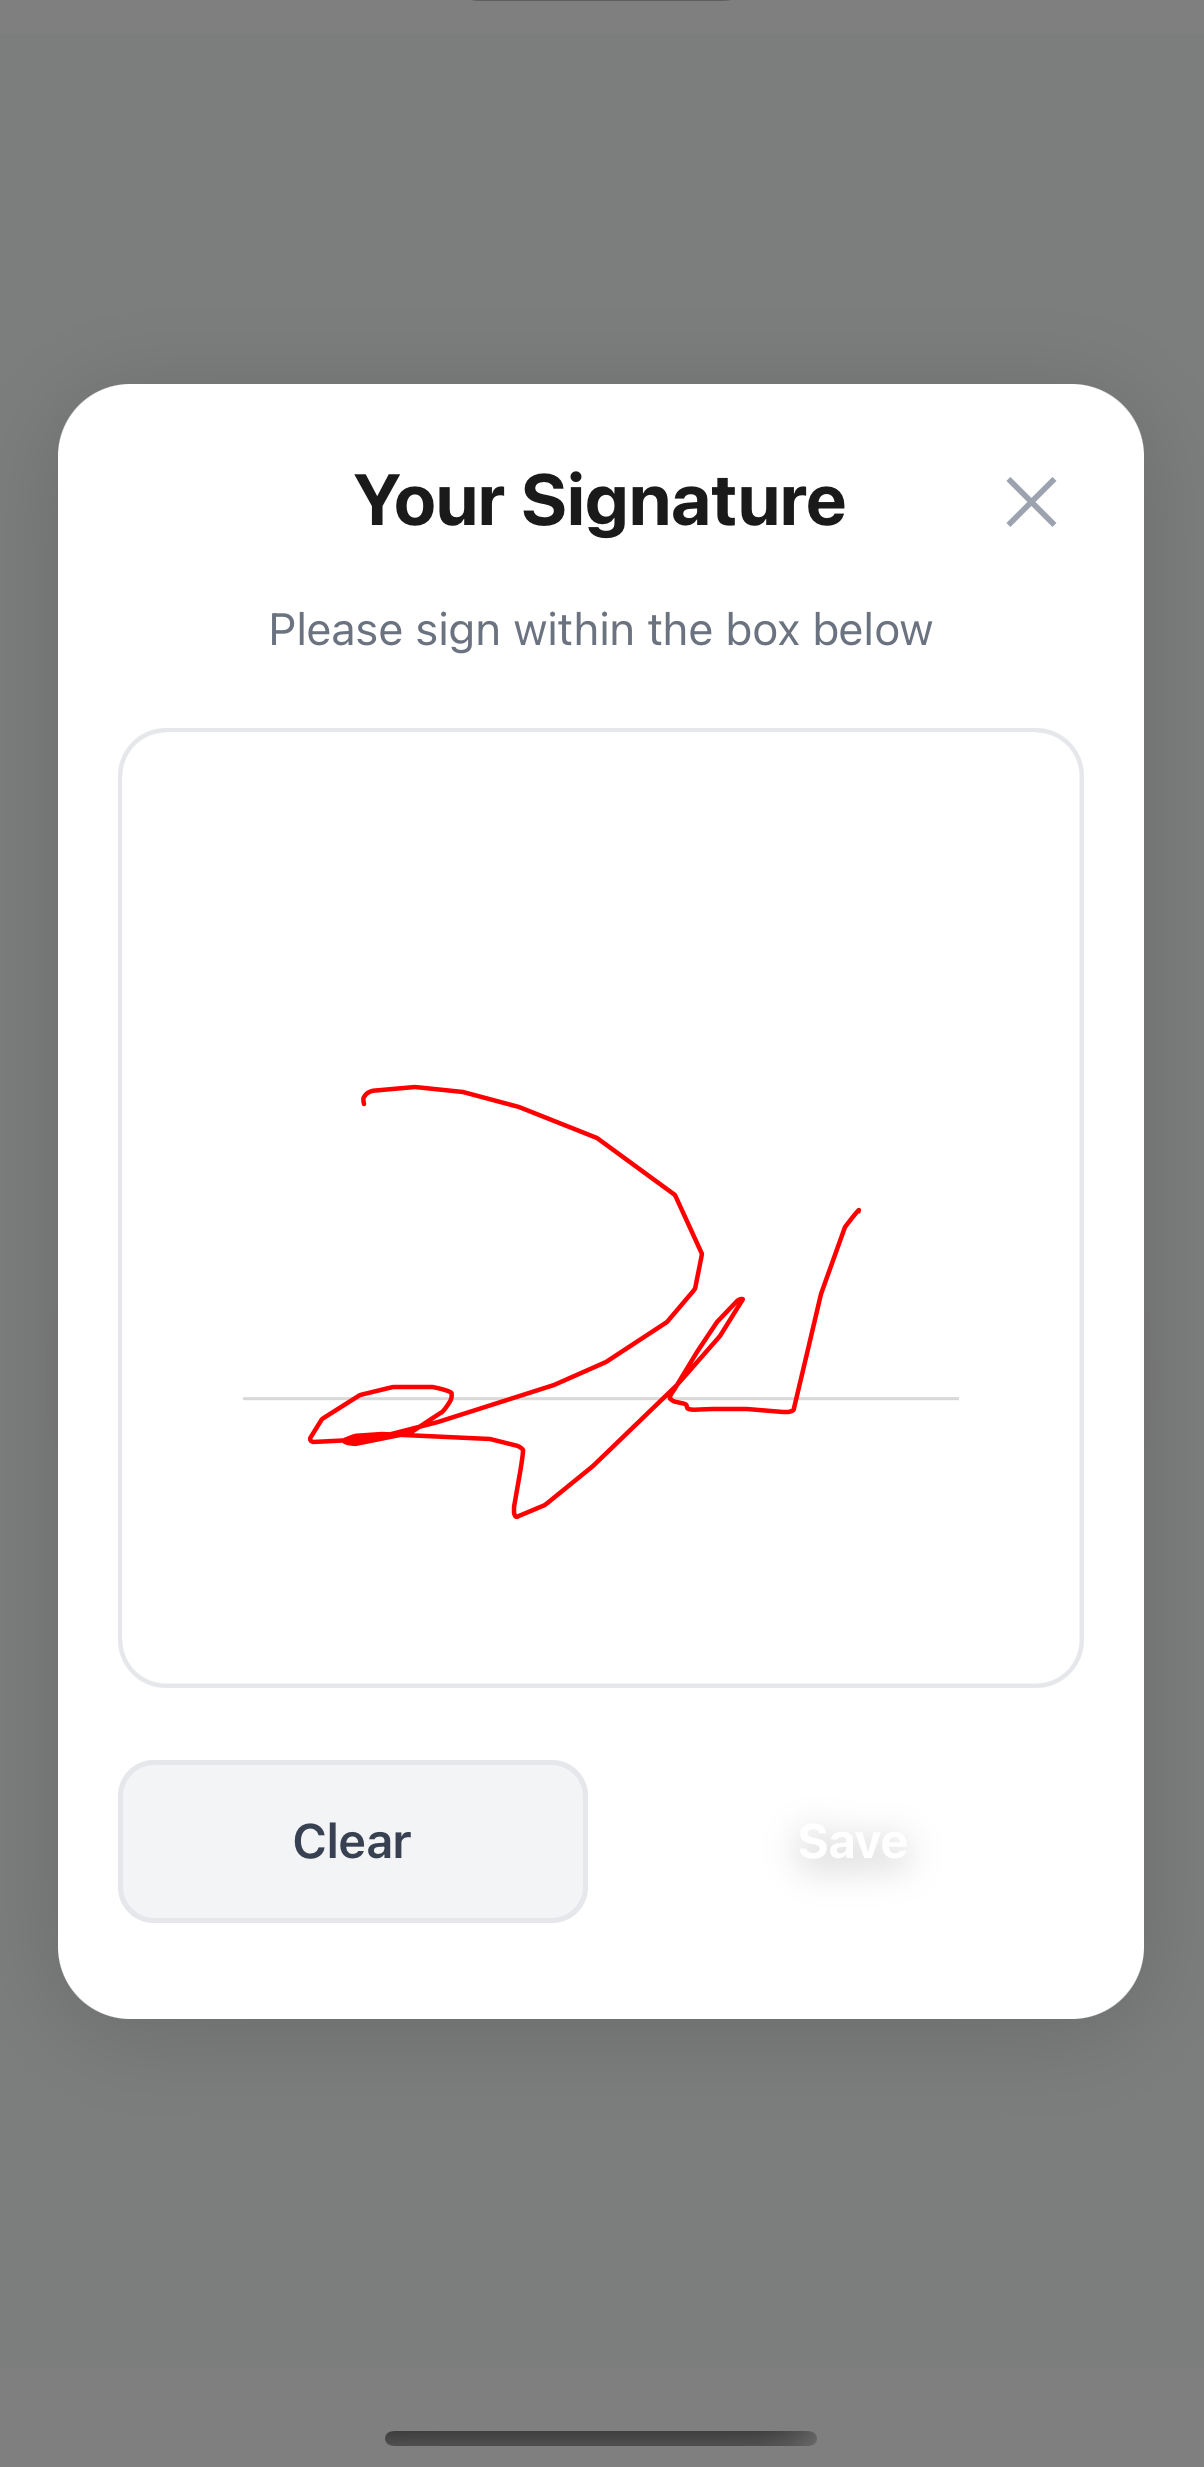
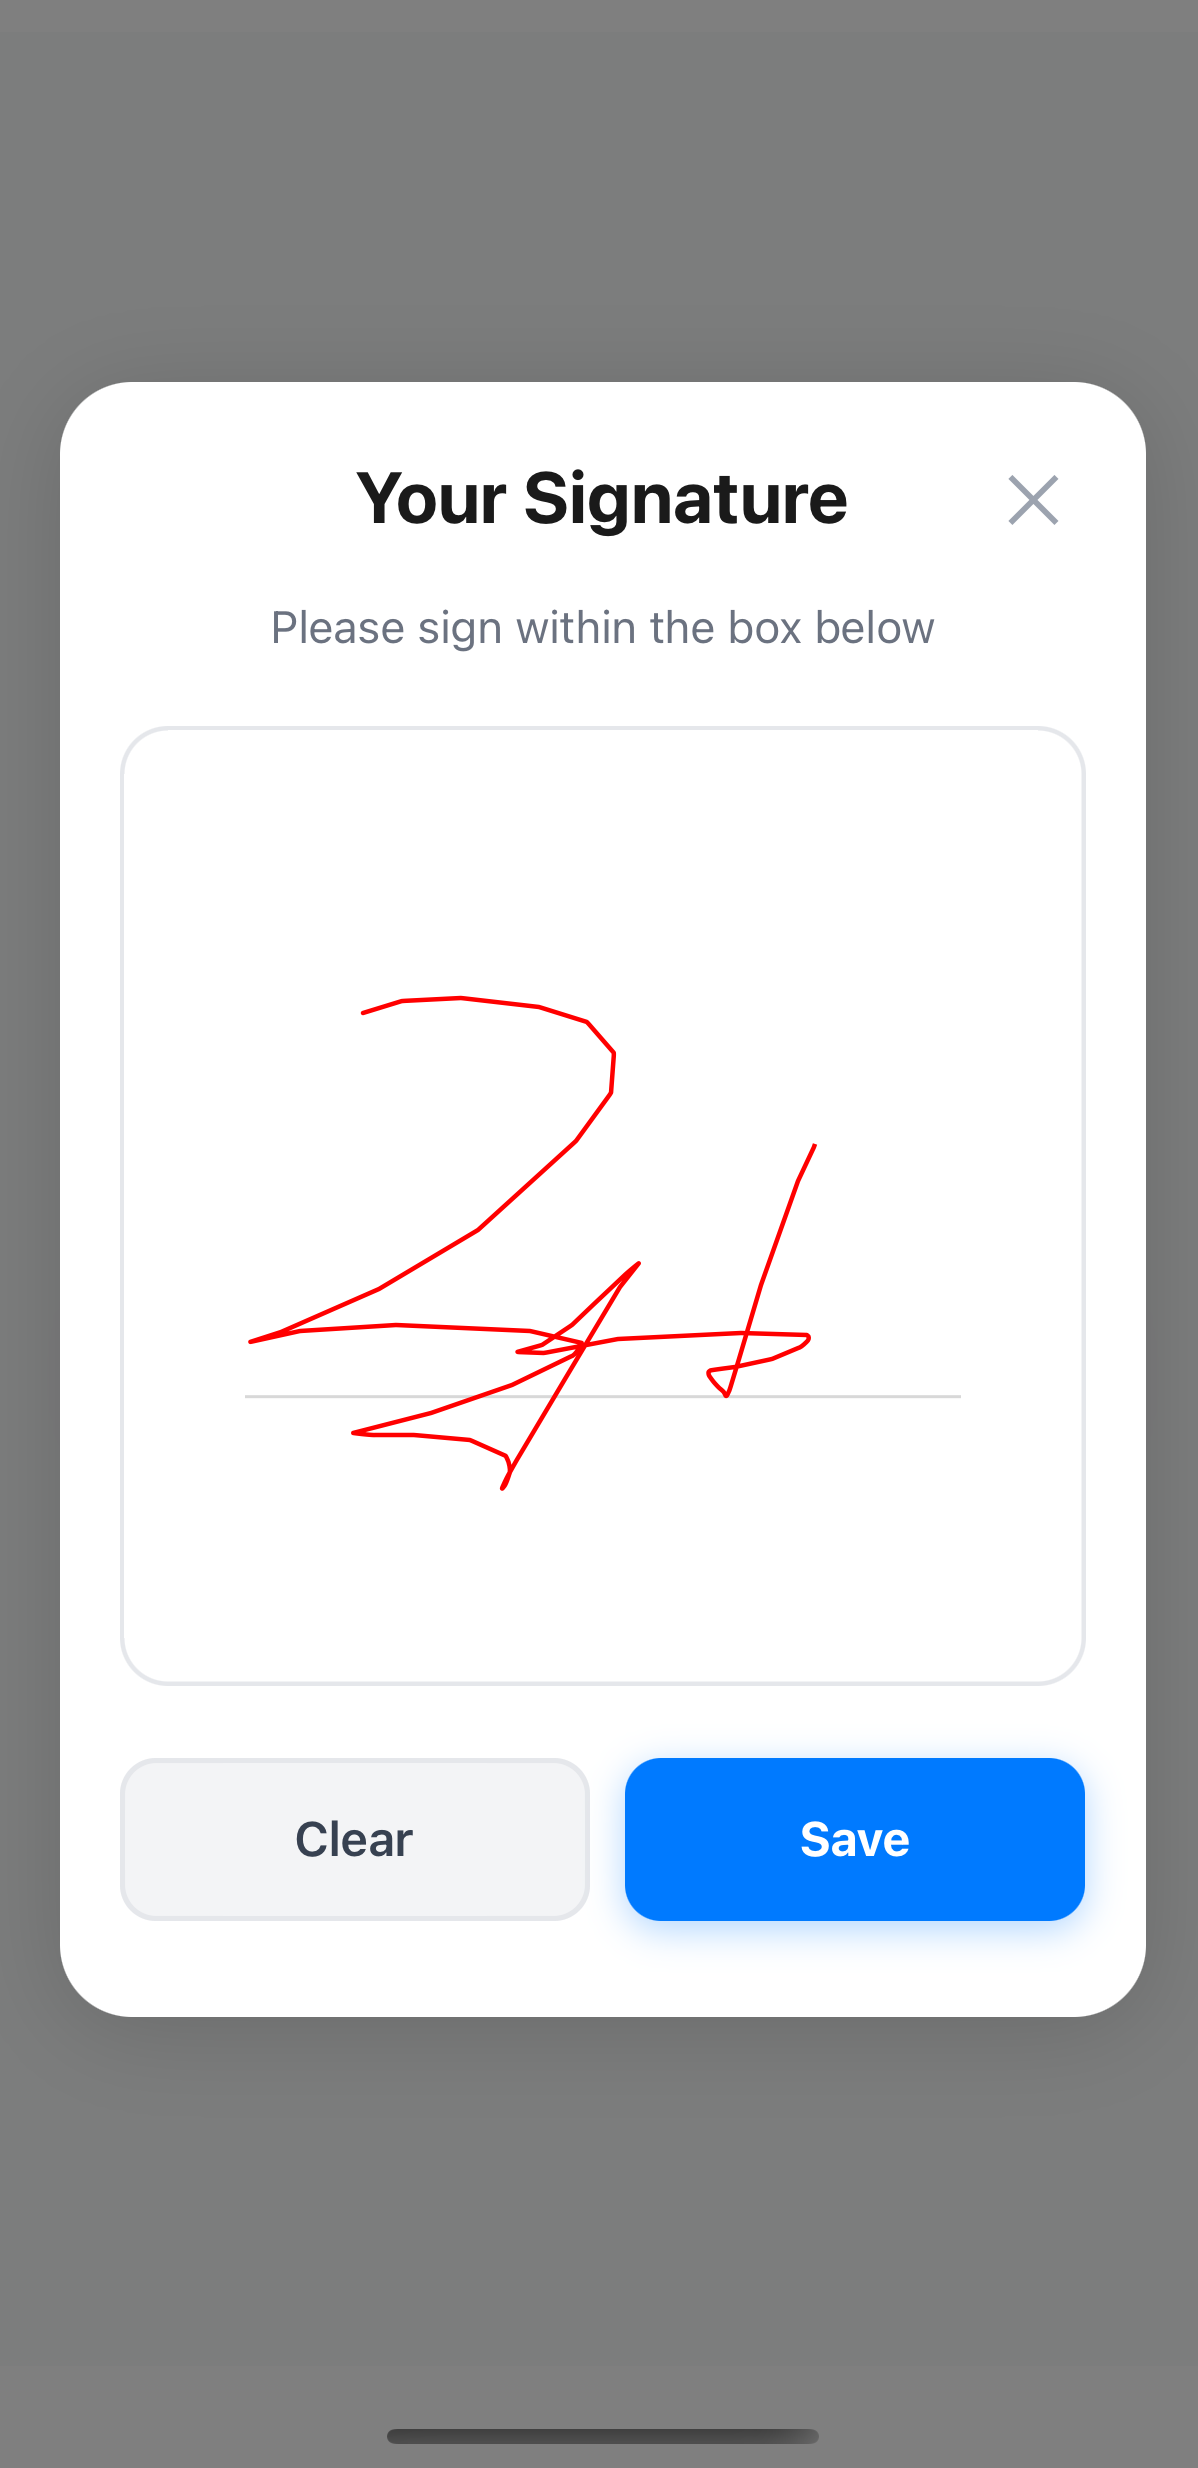
feat: change import and update readme

diff --git a/index.d.ts b/index.d.ts
@@ -1,0 +1,37 @@
+import { ForwardRefExoticComponent, RefAttributes } from 'react';
+
+export type AssetSignature = {
+  path: string;
+  uri: string;
+  size: number;
+  name: string;
+  width: number;
+  height: number;
+};
+
+export type SignaturePadProps = {
+  onSave?: (file: AssetSignature) => void;
+  onClear?: () => void;
+  onError?: () => void;
+  backgroundColorButton?: string;
+  isSaveToLibrary?: boolean;
+  lineWidth?: number;
+  showBaseline?: boolean;
+  signatureColor?: string;
+  outputFormat?: 'JPEG' | 'PNG';
+  presentationStyle?: 'modal' | 'signature-pad';
+  closeAfterSave?: boolean;
+};
+
+export type SignaturePadRef = {
+  open: () => void;
+  close: () => void;
+  onClear: () => void;
+  onSave: () => void;
+};
+
+declare const SignaturePad: ForwardRefExoticComponent<
+  SignaturePadProps & RefAttributes<SignaturePadRef>
+>;
+
+export default SignaturePad;

diff --git a/example/src/SignatureFullScreen.tsx b/example/src/SignatureFullScreen.tsx
@@ -1,8 +1,8 @@
-import React from 'react';
-import { Alert, StyleSheet, Text, TouchableOpacity, View } from 'react-native';
 import SignaturePad, {
   type SignaturePadRef,
-} from 'react-native-phone-signature';
+} from '@linhnguyen96114/react-native-phone-signature';
+import React from 'react';
+import { Alert, StyleSheet, Text, TouchableOpacity, View } from 'react-native';
 
 const SignatureFullScreen = () => {
   const signaturePadRef = React.useRef<SignaturePadRef>(null);

diff --git a/example/src/Main.tsx b/example/src/Main.tsx
@@ -1,9 +1,9 @@
-import React from 'react';
-import { Alert, StyleSheet, Text, TouchableOpacity, View } from 'react-native';
 import SignaturePad, {
   type AssetSignature,
   type SignaturePadRef,
-} from 'react-native-phone-signature';
+} from '@linhnguyen96114/react-native-phone-signature';
+import React from 'react';
+import { Alert, StyleSheet, Text, TouchableOpacity, View } from 'react-native';
 import { useNavigation } from './NavigationContext';
 
 const Main = () => {

diff --git a/example/src/Custom.tsx b/example/src/Custom.tsx
@@ -1,3 +1,7 @@
+import SignaturePad, {
+  type AssetSignature,
+  type SignaturePadRef,
+} from '@linhnguyen96114/react-native-phone-signature';
 import React from 'react';
 import {
   Alert,
@@ -7,10 +11,6 @@ import {
   TouchableOpacity,
   View,
 } from 'react-native';
-import SignaturePad, {
-  type AssetSignature,
-  type SignaturePadRef,
-} from 'react-native-phone-signature';
 import { useNavigation } from './NavigationContext';
 
 const Custom = () => {

diff --git a/src/index.tsx b/src/index.tsx
@@ -178,6 +178,7 @@ const SignaturePad = React.forwardRef<SignaturePadRef, SignaturePadProps>(
               isVisible={isVisible}
               onClose={onClose}
               renderSignaturePad={renderSignaturePad}
+              backgroundColorButton={backgroundColorButton}
               clearSignature={clearSignature}
               saveSignature={saveSignature}
             />

diff --git a/android/src/main/java/com/phonesignature/SignatureViewManager.kt b/android/src/main/java/com/phonesignature/SignatureViewManager.kt
@@ -104,7 +104,6 @@ class SignatureViewManager : SimpleViewManager<SignatureView>() {
         when (commandId) {
             "clear" -> {
                 view.clear()
-                sendEvent(view, "onClear")
             }
             "save" -> {
                 val fileName = "signature_${System.currentTimeMillis()}.jpg"
